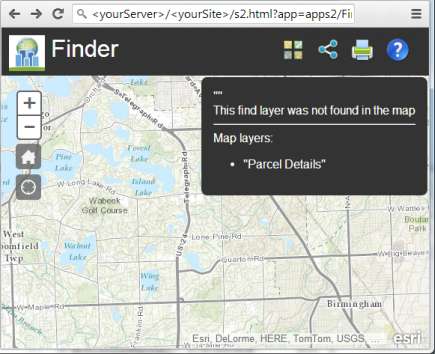
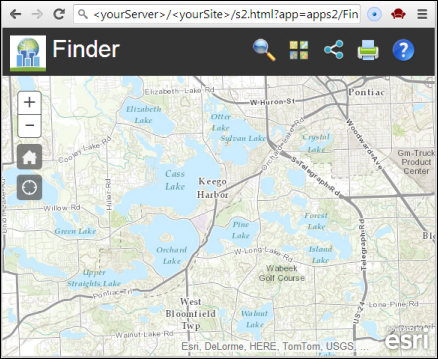
Changed order of priority for app parameters
and provided default Finder & FEF apps

diff --git a/js2/lgonlineBuildUI.js b/js2/lgonlineBuildUI.js
@@ -398,10 +398,11 @@ define("js/lgonlineBuildUI", ["dojo/on", "dojo/Deferred", "dojo/DeferredList", "
                         }
 
                         // Merge the values in inverse precedence order
-                        pThis.values = fileValues || {};  // defaults
-                        dojo.mixin(pThis.values, arcgisDefaults);  // app template config values
-                        dojo.mixin(pThis.values, arcgisOverrides);  // app config values
-                        dojo.mixin(pThis.values, queryParams);  // query params
+                        pThis.values = {};  // defaults
+                        dojo.mixin(pThis.values, queryParams);      // query params
+                        dojo.mixin(pThis.values, fileValues);       // params in file
+                        dojo.mixin(pThis.values, arcgisDefaults);   // app template config values
+                        dojo.mixin(pThis.values, arcgisOverrides);  // app publication config values
                         pThis.values = pThis.organizeConfigValues(pThis.values);
 
                         // Include the common config

diff --git a/doc/markdown/HowToHostAppOnYourServer.md b/doc/markdown/HowToHostAppOnYourServer.md
@@ -35,7 +35,7 @@ These instructions assume that you have a Web server like Internet Information S
 
     ![default map][]
 
-* Try the URL `http://<yourServer>/<yourSite>/s2.html?app=apps2/Finder` with the appropriate substitutions; you should see a general map like this:
+* Try the URL `http://<yourServer>/<yourSite>/s2.html?app=apps2/Finder` with the appropriate substitutions; you should see a try-it Finder map like this:
 
     ![default Finder map][]
 
